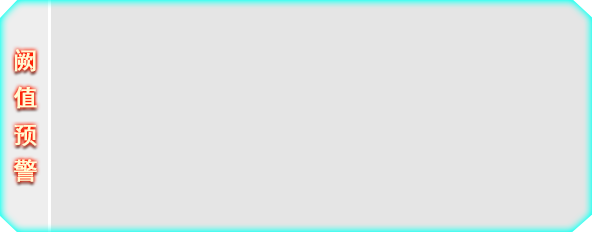
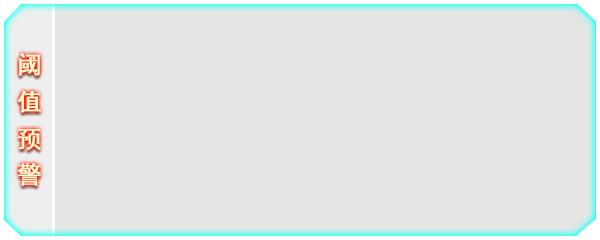
修正管理驾驶舱刷新代码。

Changed region(s): [[0.0, 0.0, 1.0, 1.0]]

diff --git a/source/7.5.10-eai-cockpit-scene/FEaiCockpitModuleForecastSnapshot.js b/source/7.5.10-eai-cockpit-scene/FEaiCockpitModuleForecastSnapshot.js
@@ -13,7 +13,7 @@ MO.FEaiCockpitModuleForecastSnapshot = function FEaiCockpitModuleForecastSnapsho
    o._dataTicker           = null;
    // @attribute
    o._backgroundImage      = null;
-   o._backgroundPadding    = null;
+   o._gridImage            = null;
    // @attribute
    o._listenersDataChanged = MO.Class.register(o, new MO.AListener('_listenersDataChanged', MO.EEvent.DataChanged));
    //..........................................................
@@ -40,10 +40,11 @@ MO.FEaiCockpitModuleForecastSnapshot = function FEaiCockpitModuleForecastSnapsho
    var o = this;
    var content = event.content;
    // 读取数据
-   var data = o._data;
-   data.unserializeSignBuffer(event.sign, event.content, true);
-   o.setData(data);
- }
+   //var data = o._data;
+   //data.unserializeSignBuffer(event.sign, event.content, true);
+   //o.setData(data);
+}
+
 //==========================================================
 // <T>图片加载完成处理。</T>
 //
@@ -70,7 +71,8 @@ MO.FEaiCockpitModuleForecastSnapshot_onPaintBegin = function FEaiCockpitModuleFo
    var height = rectangle.height;
    //..........................................................
    // 绘制背景
-   graphic.drawImage(o._backgroundImage, left, top, width, height);
+   graphic.drawRectangleImage(o._backgroundImage, rectangle);
+   graphic.drawImage(o._gridImage, 300, 20, 592, 199);
 }
 
 //==========================================================
@@ -100,6 +102,8 @@ MO.FEaiCockpitModuleForecastSnapshot_setup = function FEaiCockpitModuleForecastS
    var imageConsole = MO.Console.find(MO.FImageConsole);
    var image = o._backgroundImage = imageConsole.load('{eai.resource}/cockpit/forecast/ground.png');
    image.addLoadListener(o, o.onImageLoad);
+   var image = o._gridImage = imageConsole.load('{eai.resource}/cockpit/forecast/grid.png');
+   image.addLoadListener(o, o.onImageLoad);
 }
 
 //==========================================================
@@ -110,8 +114,8 @@ MO.FEaiCockpitModuleForecastSnapshot_setup = function FEaiCockpitModuleForecastS
 MO.FEaiCockpitModuleForecastSnapshot_processLogic = function FEaiCockpitModuleForecastSnapshot_processLogic(){
    var o = this;
    if(o._dataTicker.process()){
-      var achievement = MO.Console.find(MO.FEaiLogicConsole).cockpit().forecast();
-      achievement.doFetch(o, o.onForecastFetch);
+      //var forecast = MO.Console.find(MO.FEaiLogicConsole).cockpit().forecast();
+      //forecast.doFetch(o, o.onForecastFetch);
    }
 }
 
@@ -123,7 +127,6 @@ MO.FEaiCockpitModuleForecastSnapshot_processLogic = function FEaiCockpitModuleFo
 MO.FEaiCockpitModuleForecastSnapshot_dispose = function FEaiCockpitModuleForecastSnapshot_dispose() {
    var o = this;
    o._units = MO.Lang.Object.dispose(o._units);
-   o._backgroundPadding = MO.Lang.Object.dispose(o._backgroundPadding);
    // 父处理
    o.__base.FEaiCockpitControl.dispose.call(o);
 }

diff --git a/source/4.5.01-gui-common/FGuiControlRenderable.js b/source/4.5.01-gui-common/FGuiControlRenderable.js
@@ -112,7 +112,7 @@ MO.FGuiControlRenderable_process = function FGuiControlRenderable_process(){
    var o = this;
    o.__base.FE3dFaceData.process.call(o);
    var control = o._control;
-   if(control.isDirty()){
+   if(control.testDirty()){
       control.updateRenderable();
    }
 }
